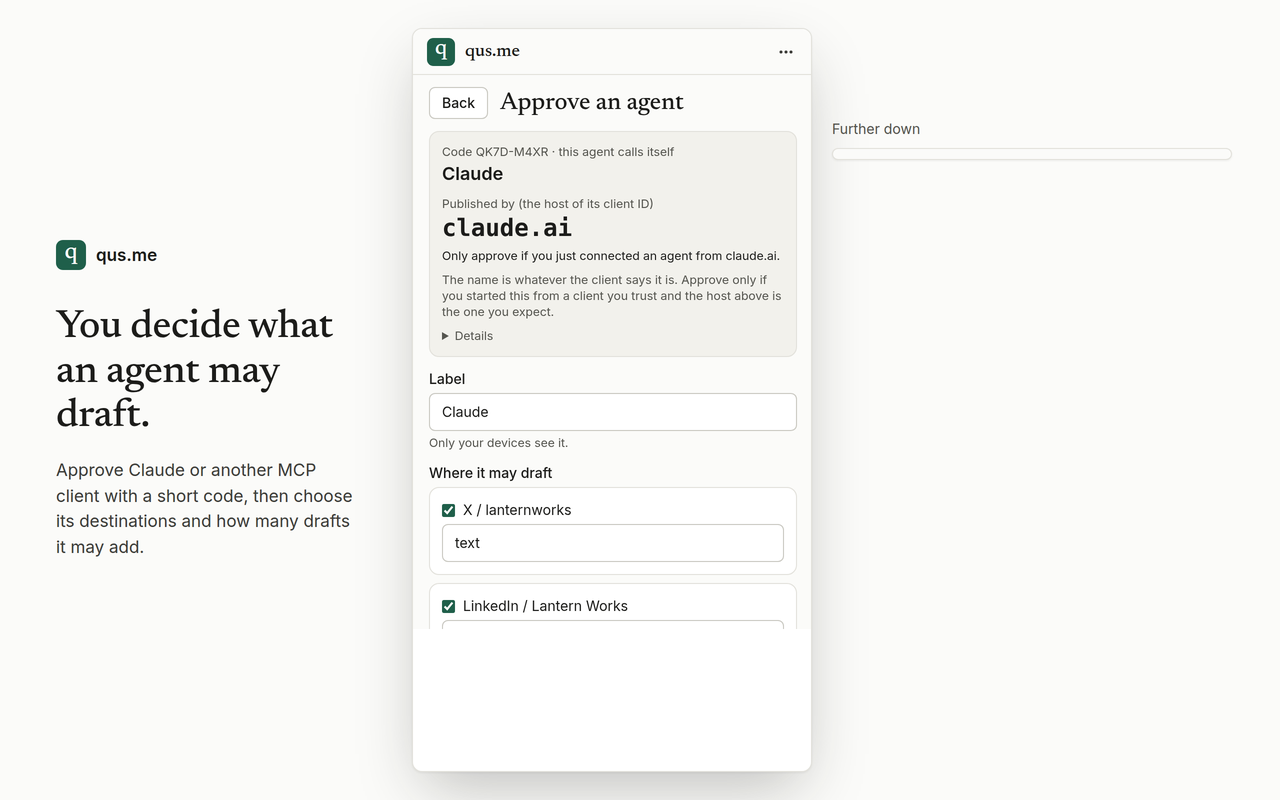
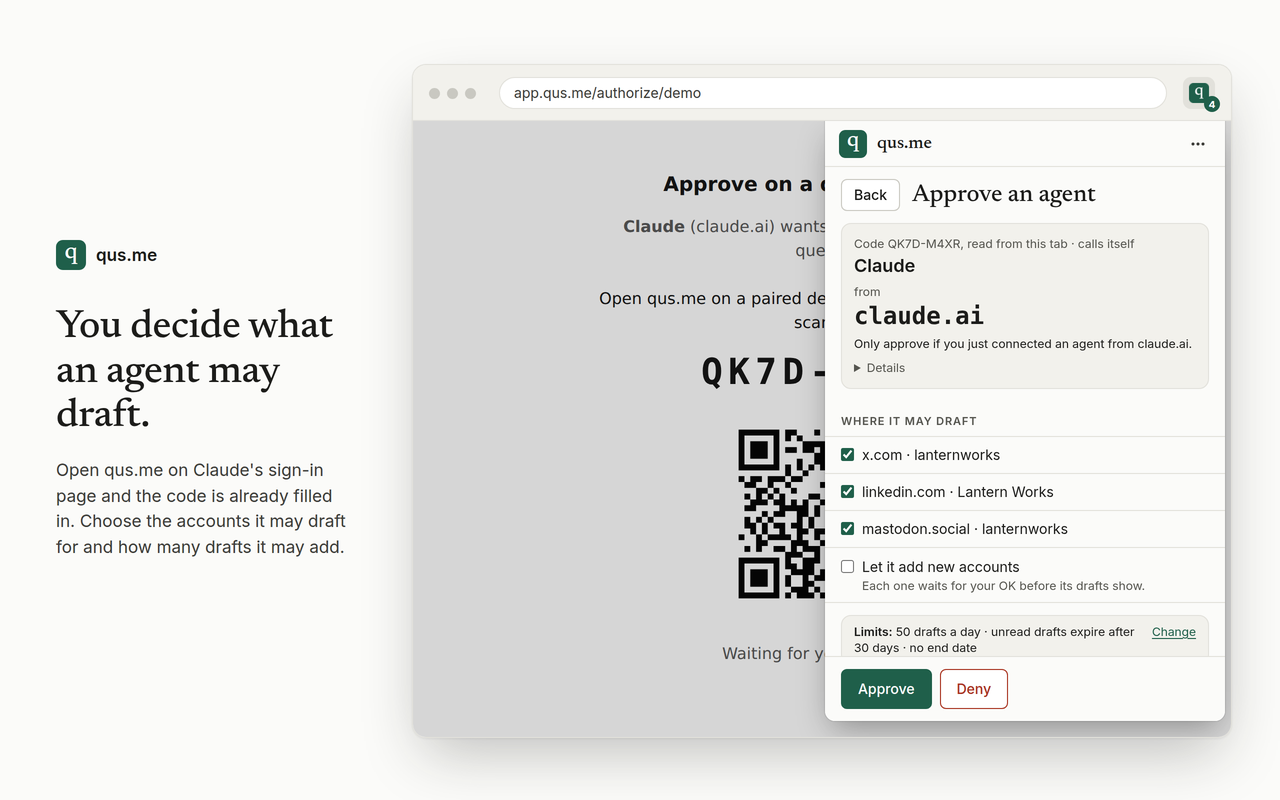
chore(store): show approving an agent from its sign-in tab
The approve screenshot is the popup opened over the service's authorize page, rendered by authorize-page.ts: the code is read off the tab and looked up, and the compact form fits one view, so it no longer needs splitting into two cards.

diff --git a/scripts/store-screenshots/authorize-page.ts b/scripts/store-screenshots/authorize-page.ts
@@ -1,0 +1,19 @@
+/**
+ * The service's authorize page as an MCP client's sign-in tab shows it, for the store screenshot
+ * of approving an agent (scripts/store-screenshots/capture.py). Prints the HTML on stdout.
+ *
+ * Run: node scripts/store-screenshots/authorize-page.ts
+ */
+import { authorizePage } from '../../packages/core/src/oauth/pages.ts';
+
+const code = 'QK7D-M4XR';
+process.stdout.write(
+  authorizePage({
+    userCode: code,
+    qrUrl: `https://app.qus.me/approve?code=${code}`,
+    clientName: 'Claude',
+    clientHost: 'claude.ai',
+    statusPath: '/authorize/demo/status',
+    expiresAt: 0,
+  }).html
+);

diff --git a/scripts/store-screenshots/capture.py b/scripts/store-screenshots/capture.py
@@ -42,6 +42,8 @@ SERVICE_ORIGIN = "https://app.qus.me"
 # The tab the popup believes it opened over; matches the bundled X definition's `match`.
 TAB_URL = "https://x.com/compose/post"
 FRAME_URL = "x.com/compose/post"
+# The MCP client's sign-in tab, for approving an agent (authorize-page.ts renders it).
+AUTHORIZE_URL = f"{SERVICE_ORIGIN}/authorize/demo"
 # The browser frame's page area, in CSS pixels.
 PAGE_W, PAGE_H = 820, 616
 SCALE = 2
@@ -230,21 +232,26 @@ def picker_view(drafts: list[dict], now: int) -> dict:
 
 # Stubs for extension pages only: the active tab, the read-only account detection, the sync
 # request (the cache is seeded instead), the service permission prompt and the service's answer
-# to an approval code. Everything else is the real extension.
+# to an approval code. Everything else is the real extension. A popup opened with `?stub-tab=URL`
+# believes it opened over that tab; over the authorize page, the page read returns its code.
 INIT_SCRIPT = """
 (() => {
   if (location.protocol !== 'chrome-extension:') return;
   const cfg = %s;
   const def = (obj, name, fn) =>
     obj && Object.defineProperty(obj, name, { value: fn, configurable: true, writable: true });
+  const tabUrl = new URLSearchParams(location.search).get('stub-tab') ?? cfg.tabUrl;
+  const onAuthorize = tabUrl.startsWith(cfg.serviceOrigin + '/authorize/');
   def(chrome.tabs, 'query', async () =>
-    [{ id: 4242, index: 0, windowId: 1, active: true, url: cfg.tabUrl, title: 'Compose post' }]);
+    [{ id: 4242, index: 0, windowId: 1, active: true, url: tabUrl, title: 'Compose post' }]);
   def(chrome.scripting, 'executeScript', async (injection) =>
-    injection.files ? [{ frameId: 0, result: null }] : [{ frameId: 0, result: cfg.detected }]);
+    injection.files ? [{ frameId: 0, result: null }]
+      : [{ frameId: 0, result: onAuthorize ? cfg.approvalCode : cfg.detected }]);
   const send = chrome.runtime.sendMessage.bind(chrome.runtime);
   def(chrome.runtime, 'sendMessage', (message, ...rest) =>
     message && message.type === 'qusme.sync' ? Promise.resolve({ state: 'ok' }) : send(message, ...rest));
   def(chrome.permissions, 'request', async () => true);
+  def(chrome.permissions, 'contains', async () => true);
   const realFetch = window.fetch.bind(window);
   window.fetch = async (input, init) => {
     const url = String(input instanceof Request ? input.url : input);
@@ -326,7 +333,7 @@ def q_mark(size: int) -> str:
     )
 
 
-def frame(page_img: Path, overlay: str, badge: str) -> str:
+def frame(page_img: Path, overlay: str, badge: str, url: str = FRAME_URL) -> str:
     """A plain browser window (no real browser's look) with the extension's toolbar button."""
     icon = data_uri(EXTENSION / "icon/32.png")
     count = f"<b>{badge}</b>" if badge else ""
@@ -334,7 +341,7 @@ def frame(page_img: Path, overlay: str, badge: str) -> str:
 <div class="win">
   <div class="chrome">
     <span class="dots"><i></i><i></i><i></i></span>
-    <span class="url">{FRAME_URL}</span>
+    <span class="url">{url}</span>
     <span class="ext"><img src="{icon}" alt="">{count}</span>
   </div>
   <div class="page"><img src="{data_uri(page_img)}" alt="">{overlay}</div>
@@ -364,7 +371,6 @@ FRAME_CSS = f"""
 .popup img, .card img {{ display: block; }}
 .card {{ position: absolute; border-radius: 10px; overflow: hidden; background: #fff;
          box-shadow: 0 1px 2px rgba(0,0,0,.06), 0 24px 60px -12px rgba(28,28,26,.28); border: 1px solid #e2e1db; }}
-.further {{ position: absolute; font-size: 14px; color: #55554f; }}
 .caption {{ position: absolute; left: 56px; top: 0; bottom: 0; width: 300px; display: flex; flex-direction: column;
             justify-content: center; }}
 .caption .brand {{ display: flex; align-items: center; gap: 10px; font-weight: 600; font-size: 17px; margin-bottom: 36px; }}
@@ -388,25 +394,6 @@ def popup_overlay(img: Path, max_h: int = 600) -> str:
         f'<div class="shade"></div><div class="popup" style="width:{w}px;height:{min(h, max_h)}px">'
         f'<img src="{data_uri(img)}" style="width:{w}px;height:{h}px" alt=""></div>'
     )
-
-
-def split_cards(img: Path, cut: int) -> str:
-    """A popup screen too tall for one view, as two cards: its top, and the rest further down."""
-    w, h = image_css_size(img)
-    uri = data_uri(img)
-    rest = h - cut
-    with Image.open(img) as im:
-        paper = "#%02x%02x%02x" % im.convert("RGB").getpixel((4, 4))
-    left = 1280 - 48 - 2 * w - 20
-    top = (800 - cut) // 2
-    second = top + 120
-    return f"""
-<div class="card" style="left:{left}px;top:{top}px;width:{w}px;height:{cut}px">
-  <img src="{uri}" style="width:{w}px;height:{h}px" alt=""></div>
-<div class="further" style="left:{left + w + 20}px;top:{second - 28}px">Further down</div>
-<div class="card" style="left:{left + w + 20}px;top:{second}px;width:{w}px;padding-top:10px;background:{paper}">
-  <div style="height:{rest}px;overflow:hidden">
-    <img src="{uri}" style="width:{w}px;height:{h}px;margin-top:-{cut}px" alt=""></div></div>"""
 
 
 def screenshot_html(title: str, body: str, right: str) -> str:
@@ -481,6 +468,7 @@ def main() -> None:
             "scopes": ["drafts:submit"],
             "expires_at": now + 600,
         },
+        "approvalCode": "QK7D-M4XR",
     }
     local = {
         "qusme.queue": {
@@ -563,19 +551,19 @@ def main() -> None:
         home_page.get_by_text("x.com · lanternworks").wait_for()
         home = shoot_popup(home_page, tmp / "home.png")
 
-        approve_page = popup(ctx, ext_id, "?approve=QK7D-M4XR")
-        approve_page.get_by_role("button", name="Look up").click()
-        approve_page.get_by_role("button", name="Approve").first.wait_for(timeout=15000)
+        # The MCP client's sign-in tab, and the popup opened over it: the code is read off the
+        # page and looked up, so the popup opens on the review.
+        signin = ctx.new_page()
+        signin.set_viewport_size({"width": PAGE_W, "height": PAGE_H})
+        html = subprocess.run(
+            ["node", str(HERE / "authorize-page.ts")], check=True, capture_output=True, text=True
+        ).stdout
+        signin.set_content(html)
+        signin_img = tmp / "signin.png"
+        signin.screenshot(path=str(signin_img))
+        approve_page = popup(ctx, ext_id, f"?stub-tab={AUTHORIZE_URL}")
+        approve_page.get_by_role("button", name="Approve", exact=True).wait_for(timeout=15000)
         approve = shoot_popup(approve_page, tmp / "approve.png")
-        # The second card starts between the destination list and the new-destinations box.
-        box = approve_page.locator("#app > div").bounding_box()
-        listed = approve_page.locator("fieldset ul").first.bounding_box()
-        toggle = (
-            approve_page.get_by_text("Let it propose new destinations")
-            .locator("xpath=ancestor::*[contains(@class, 'card')][1]")
-            .bounding_box()
-        )
-        approve_cut = int((listed["y"] + listed["height"] + toggle["y"]) / 2 - box["y"])
 
         canvas = ctx.new_page()
         badge = str(len(drafts))
@@ -597,9 +585,14 @@ def main() -> None:
             (
                 "03-approve-agent.png",
                 "You decide what an agent may draft.",
-                "Approve Claude or another MCP client with a short code, then choose its "
-                "destinations and how many drafts it may add.",
-                split_cards(approve, approve_cut),
+                "Open qus.me on Claude's sign-in page and the code is already filled in. "
+                "Choose the accounts it may draft for and how many drafts it may add.",
+                frame(
+                    signin_img,
+                    popup_overlay(approve),
+                    badge,
+                    url=AUTHORIZE_URL.removeprefix("https://"),
+                ),
             ),
             (
                 "04-setup.png",
